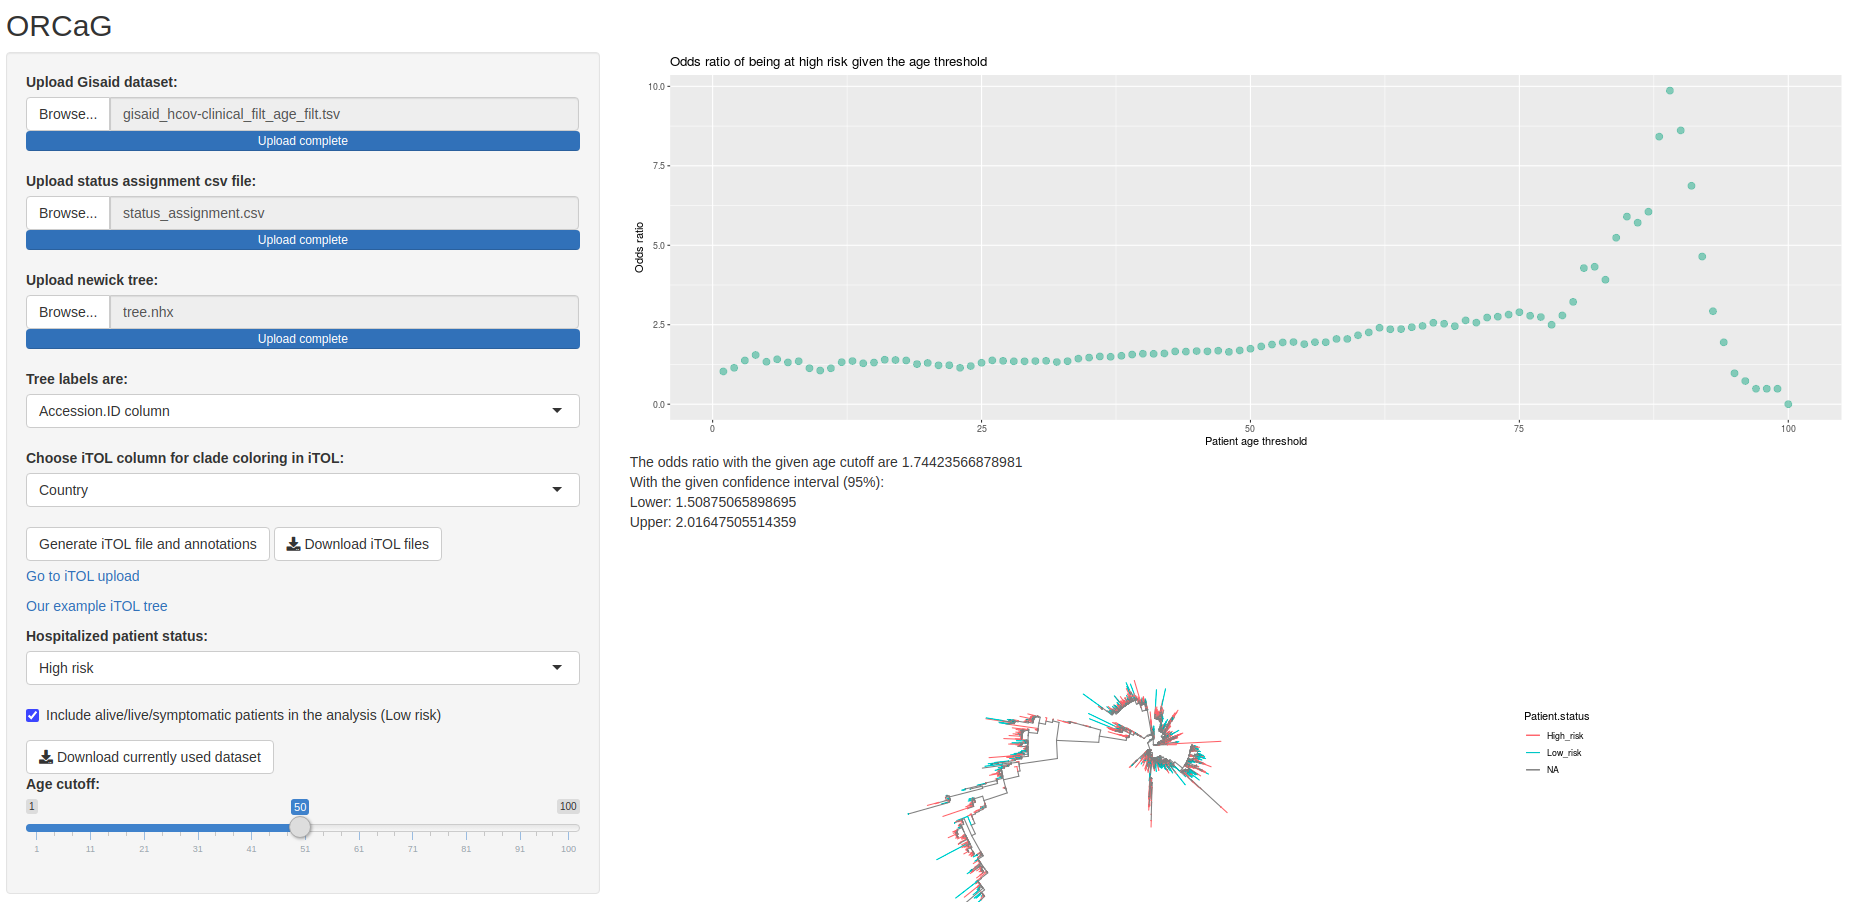
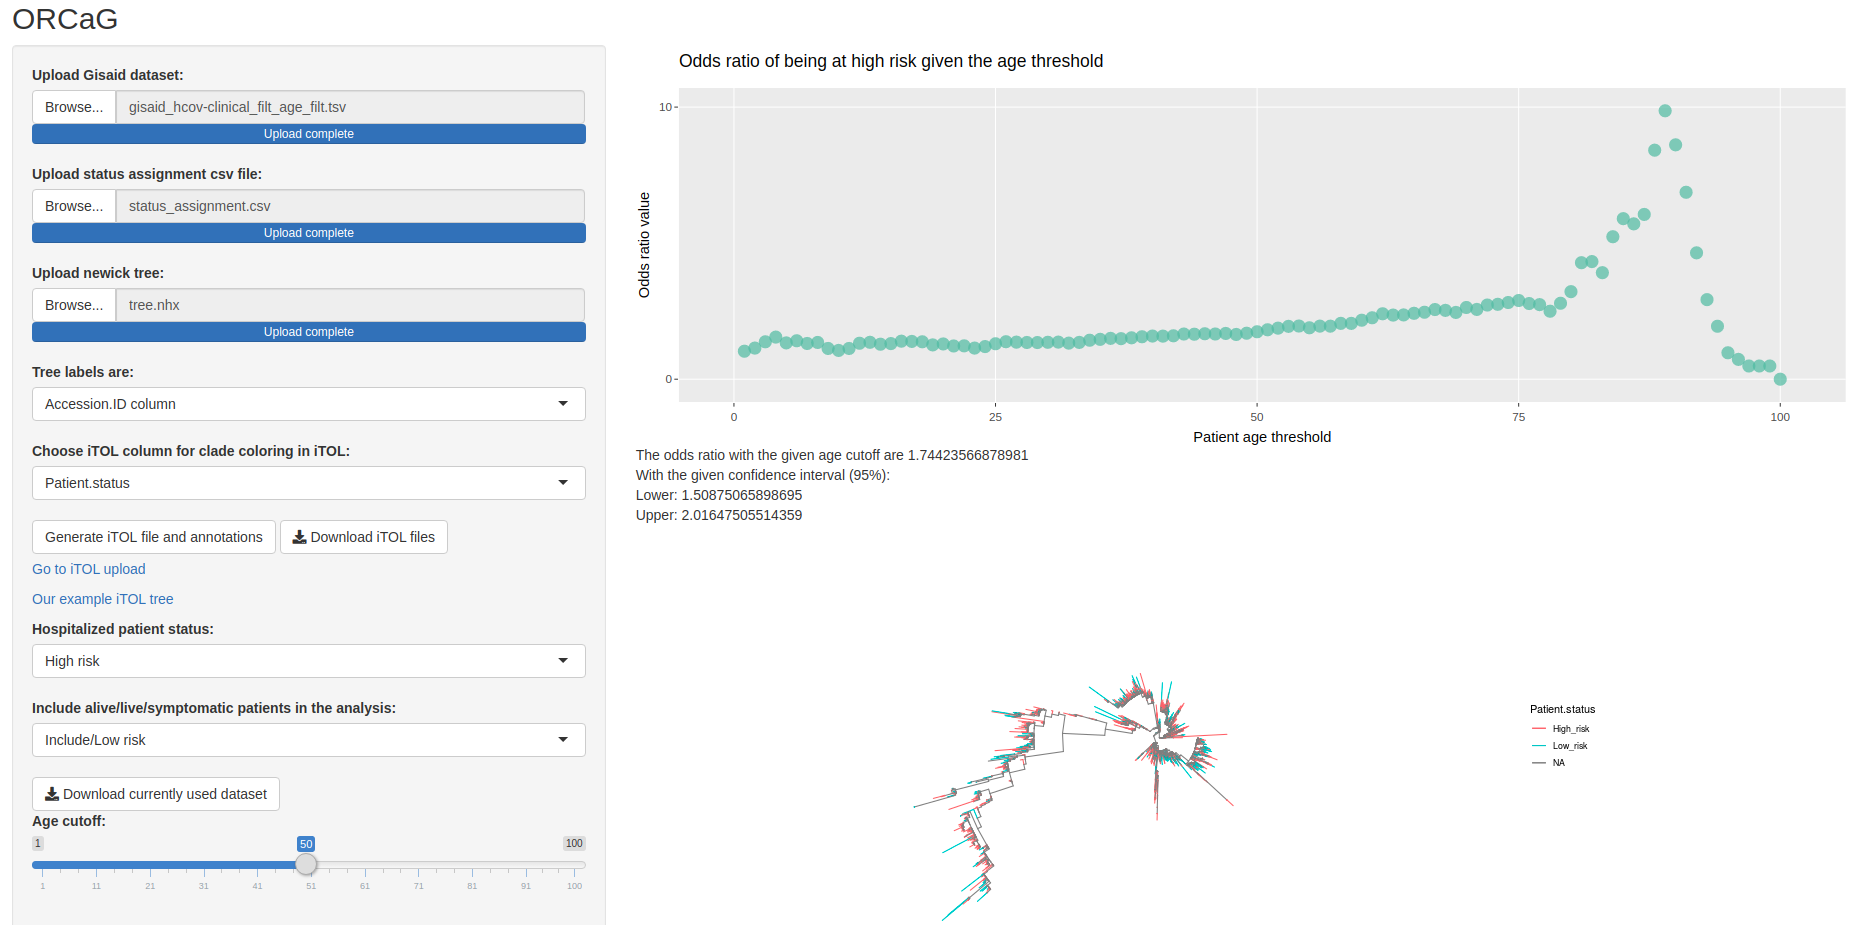
Updated figures and README for latest version

diff --git a/ORCaG/README.md b/ORCaG/README.md
@@ -61,7 +61,8 @@ Then the usage of the GUI is pretty the same. Inputs should be:
 <div align='center'>
   <img src='https://github.com/pavlohrab/GISAID_phylo/blob/master/ORCaG/Images/inputs.png'>
 </div>
-1.GISAID dataset is a must. We assume you are downloading 14-column dataset with `\t` as separator (tsv file). Names of the columns doesn't matter, but we are using the first one as Virus.name, second - as Accession.ID, and so on. The example is below:
+
+1. GISAID dataset is a must. We assume you are downloading 14-column dataset with `\t` as separator (tsv file). Names of the columns doesn't matter, but we are using the first one as Virus.name, second - as Accession.ID, and so on. The example is below:
 <br>
 
 >"Virus.name, Accession.ID, Collection.date, Location, Host, Additional.location.information,Gender, Patient.age, Patient.status,Passage, Specimen, Additional.host.information, Lineage, Clade"
@@ -74,8 +75,9 @@ When files are uploaded you can do plenty of things:
 <div align='center'>
   <img src='https://github.com/pavlohrab/GISAID_phylo/blob/master/ORCaG/Images/controls.png'>
 </div>
+
 1. Change Hospitalized patient status (High risk/Low risk/Default(as uploded)/Remove from dataset) (select Menu) <br>
-2. Use or not to use Alive/Live/Symptomatic categories of GISAID dataset (check box) <br>
+2. Select how to treat Alive/Live/Symptomatic categories of GISAID dataset (Default (as uploaded), Include as Low risk, Delete from the dataset) <br>
 3. Download the currently used dataset (Button) <br>
 4. Generate iTOL annotation files and download them (two distinct buttons) <br>
 5. Select which category to use for node colouring in iTOL annotation (select menu) <br>
@@ -113,15 +115,23 @@ The app is generating several output plots:
 <div align='center'>
   <img src='https://github.com/pavlohrab/GISAID_phylo/blob/master/ORCaG/Images/barplots.png'>
 </div>
-6. Age over categories distribution barplot. On the right computed statistics for those categories
+6. Patient count data for each clade in every single country
+<div align='center'>
+  <img src='https://github.com/pavlohrab/GISAID_phylo/blob/master/ORCaG/Images/country.png'>
+</div>
+7. OR calculations for every clade with given High/Low risk ratio. Reference clade is computed as base High/Low risk rate with the median value of the clades' cases.
+<div align='center'>
+  <img src='https://github.com/pavlohrab/GISAID_phylo/blob/master/ORCaG/Images/country_OR.png'>
+</div>
+8. Age over categories distribution barplot. On the right computed statistics for those categories
 <div align='center'>
   <img src='https://github.com/pavlohrab/GISAID_phylo/blob/master/ORCaG/Images/age_box.png'>
 </div>
-7. Distribution of age over Clades (with p_value computation among them) and Distribution of age over Clades with patient.status categories division. The significance is calculated between means in each clade for two categories
+9. Distribution of age over Clades (with p_value computation among them) and Distribution of age over Clades with patient.status categories division. The significance is calculated between means in each clade for two categories
 <div align='center'>
   <img src='https://github.com/pavlohrab/GISAID_phylo/blob/master/ORCaG/Images/clade_box.png'>
 </div>
-8. Phylocanvas interactive tree. 
+10. Phylocanvas interactive tree. 
 <div align='center'>
   <img src='https://github.com/pavlohrab/GISAID_phylo/blob/master/ORCaG/Images/phylocanvas.png'>
 </div>
